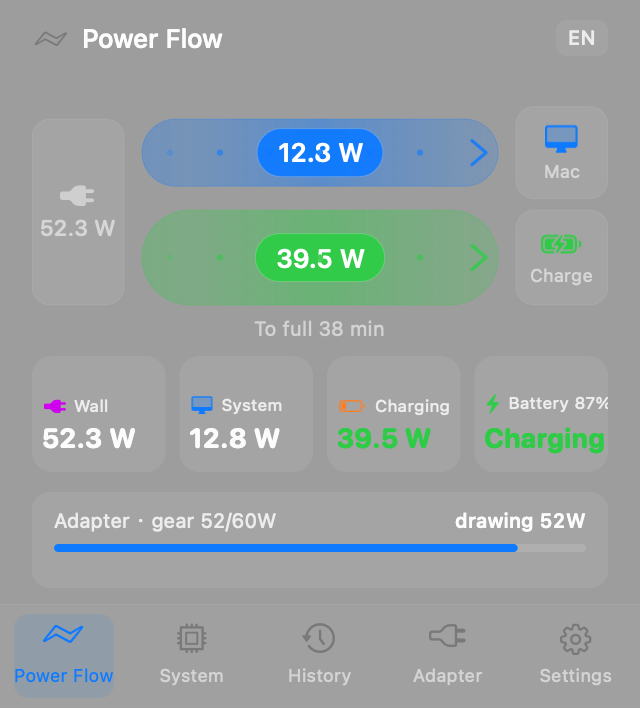
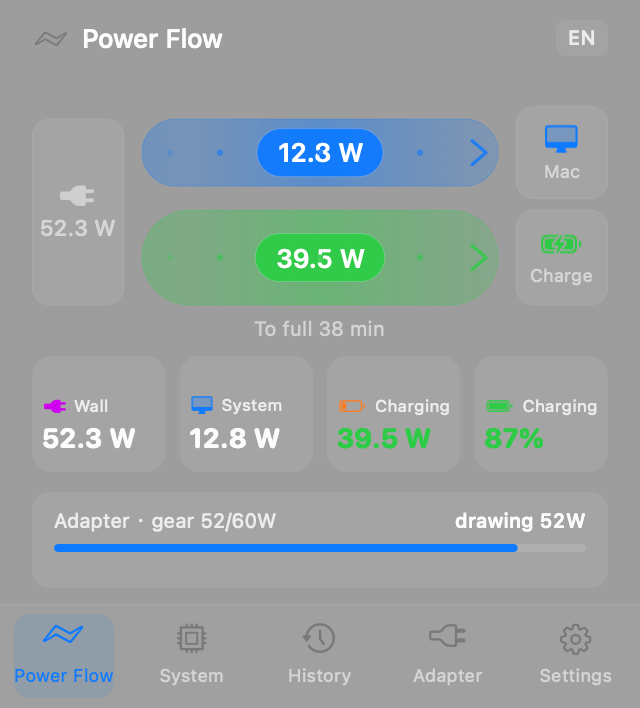
fix(ui): 状态卡英文被切、汇流线断开、体检结论不看缺口
- 状态卡改成「状态小标题 + 电量大字」：英文 'Battery 100%' 在 66pt 卡里
  被切掉百分号，自检的溢出审计也报了 1.75pt
- 两路供电的汇流从一根竖条（和系统节点之间有 3pt 缝）改成两条弧线，
  各自从带子末端收进系统节点
- 体检结论：插着电却在放电时先说'充电器带不动，差 X W 由电池补'，
  不再说'接近充满，功率自然降低'
- MetricCard 加自动缩字号兜底，长文案不会再撑破卡片
- 站点/README 截图按新界面重出，og 图跟着更新
- 版本 2.1.2

Changed region(s): [[0.75, 0.5593, 0.9688, 0.6525]]

diff --git a/docs/en/index.html b/docs/en/index.html
@@ -4,9 +4,9 @@
 <meta charset="utf-8">
 <meta name="viewport" content="width=device-width,initial-scale=1">
 <meta name="color-scheme" content="light">
-<title>PowerPulse — macOS menu bar utility · 2.1.1</title>
+<title>PowerPulse — macOS menu bar utility · 2.1.2</title>
 <meta name="description" content="One sample per second. Wall power, system draw and charge power, as three values that must add up — so you can tell what your charger is actually delivering.">
-<meta property="og:title" content="PowerPulse — macOS menu bar utility · 2.1.1">
+<meta property="og:title" content="PowerPulse — macOS menu bar utility · 2.1.2">
 <meta property="og:description" content="One sample per second. Wall power, system draw and charge power, as three values that must add up — so you can tell what your charger is actually delivering.">
 <meta property="og:image" content="https://powerpulse.qijunhao.xyz/img/og.png">
 <meta property="og:type" content="website">
@@ -280,7 +280,7 @@ pre .c{color:#7f93ad}
 
 <header class="wrap hero">
   <div>
-    <span class="eyebrow"><i class="dot"></i>macOS menu bar utility · 2.1.1</span>
+    <span class="eyebrow"><i class="dot"></i>macOS menu bar utility · 2.1.2</span>
     <h1><span class="ln">Every watt,</span><span class="ln"><em>right in the menu bar.</em></span></h1>
     <p class="hero-sub">One sample per second. Wall power, system draw and charge power, as three values that must add up — so you can tell what your charger is actually delivering.</p>
     <div class="hero-cta">
@@ -387,10 +387,10 @@ pre .c{color:#7f93ad}
 <section class="sec" id="download"><div class="wrap">
   <div class="dl">
     <img src="../img/appicon.png" alt="PowerPulse icon">
-    <div><h2>Install once, live in the menu bar</h2><p>No installer — drag it into Applications. The build isn't notarized, so the first launch is blocked once.</p><div class="meta"><span>v2.1.1</span><span>.zip</span><span>666 KB</span><span>macOS 14.0+</span><span>Apple Silicon</span><span>MIT</span></div><p class="dl-note">Laptops get battery and charging; desktops (Mac Studio / mini / Pro) read system power from SMC.<br>Ad-hoc signed, not notarized: if Gatekeeper blocks the first launch, allow it in System Settings → Privacy & Security.</p>
+    <div><h2>Install once, live in the menu bar</h2><p>No installer — drag it into Applications. The build isn't notarized, so the first launch is blocked once.</p><div class="meta"><span>v2.1.2</span><span>.zip</span><span>667 KB</span><span>macOS 14.0+</span><span>Apple Silicon</span><span>MIT</span></div><p class="dl-note">Laptops get battery and charging; desktops (Mac Studio / mini / Pro) read system power from SMC.<br>Ad-hoc signed, not notarized: if Gatekeeper blocks the first launch, allow it in System Settings → Privacy & Security.</p>
       <div class="dl-cmd"><span>Or install with one line — Terminal downloads carry no quarantine flag, so nothing pops up:</span><code>curl -fsSL https://powerpulse.qijunhao.xyz/install.sh | bash</code></div></div>
     <div class="dl-cta">
-      <a class="btn btn-primary" href="https://github.com/777cola/PowerPulse/releases/latest">Download 2.1.1</a>
+      <a class="btn btn-primary" href="https://github.com/777cola/PowerPulse/releases/latest">Download 2.1.2</a>
     </div>
   </div>
   <details class="build" id="build" open>

diff --git a/docs/index.html b/docs/index.html
@@ -4,9 +4,9 @@
 <meta charset="utf-8">
 <meta name="viewport" content="width=device-width,initial-scale=1">
 <meta name="color-scheme" content="light">
-<title>PowerPulse — macOS 菜单栏工具 · 2.1.1</title>
+<title>PowerPulse — macOS 菜单栏工具 · 2.1.2</title>
 <meta name="description" content="每秒采样一次，把墙插输出、系统功耗、电池充电功率拆开显示。插上充电器那一刻，就知道这套充电套装到底跑了多少。">
-<meta property="og:title" content="PowerPulse — macOS 菜单栏工具 · 2.1.1">
+<meta property="og:title" content="PowerPulse — macOS 菜单栏工具 · 2.1.2">
 <meta property="og:description" content="每秒采样一次，把墙插输出、系统功耗、电池充电功率拆开显示。插上充电器那一刻，就知道这套充电套装到底跑了多少。">
 <meta property="og:image" content="https://powerpulse.qijunhao.xyz/img/og.png">
 <meta property="og:type" content="website">
@@ -280,7 +280,7 @@ pre .c{color:#7f93ad}
 
 <header class="wrap hero">
   <div>
-    <span class="eyebrow"><i class="dot"></i>macOS 菜单栏工具 · 2.1.1</span>
+    <span class="eyebrow"><i class="dot"></i>macOS 菜单栏工具 · 2.1.2</span>
     <h1><span class="ln">菜单栏里，</span><span class="ln"><em>看清每一瓦。</em></span></h1>
     <p class="hero-sub">每秒采样一次，把墙插输出、系统功耗、电池充电功率拆开显示。插上充电器那一刻，就知道这套充电套装到底跑了多少。</p>
     <div class="hero-cta">
@@ -387,10 +387,10 @@ pre .c{color:#7f93ad}
 <section class="sec" id="download"><div class="wrap">
   <div class="dl">
     <img src="img/appicon.png" alt="PowerPulse icon">
-    <div><h2>装上，就一直在菜单栏里</h2><p>免安装器，拖进「应用程序」即可。没有 Apple 公证，首次打开会被系统拦一次。</p><div class="meta"><span>v2.1.1</span><span>.zip</span><span>666 KB</span><span>macOS 14.0+</span><span>Apple Silicon</span><span>MIT</span></div><p class="dl-note">笔记本看电池与充电；台式机（Mac Studio / mini / Pro）没有电池，整机功率从 SMC 读。<br>ad-hoc 签名、未公证：首次打开若被拦，去「系统设置 → 隐私与安全性 → 仍要打开」。</p>
+    <div><h2>装上，就一直在菜单栏里</h2><p>免安装器，拖进「应用程序」即可。没有 Apple 公证，首次打开会被系统拦一次。</p><div class="meta"><span>v2.1.2</span><span>.zip</span><span>667 KB</span><span>macOS 14.0+</span><span>Apple Silicon</span><span>MIT</span></div><p class="dl-note">笔记本看电池与充电；台式机（Mac Studio / mini / Pro）没有电池，整机功率从 SMC 读。<br>ad-hoc 签名、未公证：首次打开若被拦，去「系统设置 → 隐私与安全性 → 仍要打开」。</p>
       <div class="dl-cmd"><span>或一行装好，终端下载不带隔离标记，不会弹窗：</span><code>curl -fsSL https://powerpulse.qijunhao.xyz/install.sh | bash</code></div></div>
     <div class="dl-cta">
-      <a class="btn btn-primary" href="https://github.com/777cola/PowerPulse/releases/latest">下载 2.1.1</a>
+      <a class="btn btn-primary" href="https://github.com/777cola/PowerPulse/releases/latest">下载 2.1.2</a>
     </div>
   </div>
   <details class="build" id="build" open>

diff --git a/Sources/Support.swift b/Sources/Support.swift
@@ -49,6 +49,7 @@ enum S {
     static let remaining = Tri("预计可用", "預計可用", "Time left")
     static let toFull = Tri("预计充满", "預計充滿", "To full")
     static let supplement = Tri("电池在补充", "電池在補充", "Battery assisting")
+    static let supplementShort = Tri("电池补充", "電池補充", "Assist")
     static let calculating = Tri("计算中", "計算中", "—")
 
     static let adapterTitle = Tri("充电器", "充電器", "Charger")
@@ -68,6 +69,7 @@ enum S {
     static let vSlow = Tri("充电速度受限，可能是线材或充电头档位不够", "充電速度受限，可能是線材或充電頭檔位不夠", "Charging speed limited — cable or adapter tier")
     static let vTaper = Tri("后段充电，功率会逐步下降，属正常", "後段充電，功率會逐步下降，屬正常", "Late-stage charging — power tapers off by design")
     static let vFull = Tri("接近充满，功率自然降低", "接近充滿，功率自然降低", "Nearly full — power tapers off")
+    static let vShort = Tri("充电器带不动整机，差的 %.1f W 由电池补", "充電器帶不動整機，差的 %.1f W 由電池補", "Charger can't keep up — %.1f W from battery")
     static let vGood = Tri("满功率协商，充电套装一切正常", "滿功率協商，充電套裝一切正常", "Negotiated at full power — kit is fine")
     static let vLimited = Tri("当前协商 %@W，低于套装上限 %@W", "當前協商 %@W，低於套裝上限 %@W", "Negotiated %@W, below kit max %@W")
     static let unknown = Tri("未上报", "未上報", "not reported")

diff --git a/Sources/Panels.swift b/Sources/Panels.swift
@@ -41,7 +41,7 @@ final class NowPanel: Panel {
     private let wallCard = MetricCard(title: S.wall.v(Settings.shared.lang), symbol: "powerplug.fill", color: D.purple)
     private let sysCard = MetricCard(title: S.systemUse.v(Settings.shared.lang), symbol: "desktopcomputer", color: D.blue)
     private let batCard = MetricCard(title: S.batteryOut.v(Settings.shared.lang), symbol: "battery.25", color: D.orange)
-    private let stateCard = MetricCard(title: S.battery.v(Settings.shared.lang), symbol: "bolt.fill", color: D.green)
+    private let stateCard = MetricCard(title: S.battery.v(Settings.shared.lang), symbol: "battery.100", color: D.green)
 
     private let adapterLine = label("", font: D.text(10), color: D.secondary)
     private let adapterValue = label("", font: D.num(10, .medium), color: D.label, align: .right)
@@ -119,8 +119,9 @@ final class NowPanel: Panel {
             batCard.update(title: s.isPluggedIn ? S.batteryOut.v(lang) : S.batteryOut.v(lang),
                            value: String(format: "%.1f W", s.batteryDischargeW), valueColor: D.orange)
         }
-        stateCard.update(title: "\(S.battery.v(lang)) \(s.percent)%",
-                         value: s.statusTextKey.v(lang),
+        // 状态当小标题、电量当大字：英文 "Battery 100%" 这种长标题会把卡片挤爆
+        stateCard.update(title: s.statusTextKey.v(lang),
+                         value: "\(s.percent)%",
                          valueColor: s.isCharging ? D.green : (s.percent <= 15 ? D.red : D.label))
 
         if let a, s.isPluggedIn {

diff --git a/Sources/FlowView.swift b/Sources/FlowView.swift
@@ -272,10 +272,19 @@ final class FlowView: NSView {
 
         for b in bands { drawBandBody(b) }
 
-        // 汇流条：两根带子在右边并成一路，再接系统
-        let bus = NSRect(x: endX + 1, y: top, width: 5, height: blockH)
-        D.blue.withAlphaComponent(0.5).setFill()
-        NSBezierPath(roundedRect: bus, xRadius: 2.5, yRadius: 2.5).fill()
+        // 汇流：两根带子各画一条弧线收进系统节点，比直角的 T 形接线顺眼
+        let nodeLeft = bounds.width - nodeW
+        D.blue.withAlphaComponent(0.5).setStroke()
+        for band in bands {
+            let merge = NSBezierPath()
+            merge.lineWidth = 3
+            merge.lineCapStyle = .round
+            merge.move(to: NSPoint(x: endX - 3, y: band.centerY))
+            merge.curve(to: NSPoint(x: nodeLeft + 3, y: midY),
+                        controlPoint1: NSPoint(x: endX + 10, y: band.centerY),
+                        controlPoint2: NSPoint(x: nodeLeft - 8, y: midY))
+            merge.stroke()
+        }
 
         drawNode(x: 0, centerY: wallBand.centerY, height: max(wallBand.height, 46),
                  symbol: "powerplug.fill", value: String(format: "%.1f W", snapshot.wallW), color: D.purple)

diff --git a/Sources/Power.swift b/Sources/Power.swift
@@ -46,7 +46,7 @@ struct PowerSnapshot {
     }
     var statusTextKey: Tri {
         if isCharging { return S.charging }
-        if flowMode == .supplementing { return S.supplement }
+        if flowMode == .supplementing { return S.supplementShort }
         if isPluggedIn { return percent >= 99 ? S.full : S.plugged }
         return S.discharging
     }
@@ -81,6 +81,12 @@ struct AdapterInfo {
     func verdict(snap: PowerSnapshot) -> (text: String, level: Int) {
         // level: 0 正常 1 提示 2 警告
         if isWireless { return (S.wirelessCharging.v(Settings.shared.lang), 1) }
+        // 插着电却还在放电：结论只能是"充电器带不动"，不是"快充满了"
+        if snap.flowMode == .supplementing {
+            // 用电池实际出力，别用"系统 - 墙插"倒算：两者差 0.1 就对不上图里的数字
+            let missing = max(snap.batteryW, 0)
+            return (String(format: S.vShort.v(Settings.shared.lang), missing), 2)
+        }
         if snap.thermallyLimited != 0 || snap.temperature >= 42 {
             return (S.vThermal.v(Settings.shared.lang), 2)
         }

diff --git a/Sources/Widgets.swift b/Sources/Widgets.swift
@@ -135,6 +135,20 @@ final class MetricCard: NSView {
     }
     required init?(coder: NSCoder) { fatalError() }
 
+    override func layout() {
+        super.layout()
+        // 卡片窄、文案长（英文/繁中）时缩一点字号，比截成 "Battery as…" 好看
+        let available = bounds.width - 10
+        guard available > 20 else { return }
+        var size: CGFloat = 13.5
+        while size > 9.5, valueLabel.stringValue.size(D.rounded(size)).width > available {
+            size -= 0.5
+        }
+        if abs((valueLabel.font?.pointSize ?? 0) - size) > 0.01 {
+            valueLabel.font = D.rounded(size)
+        }
+    }
+
     /// 没数据时整张卡"熄灯"，别让灰色占位看起来像激活的模块
     func setDimmed(_ dim: Bool) {
         iconView?.alphaValue = dim ? 0.4 : 1

diff --git a/tools/build_site.py b/tools/build_site.py
@@ -7,8 +7,8 @@
 import io, os, pathlib
 
 # 版本与包体积只在这里改一处
-SITE_VER = "2.1.1"
-ZIP_KB = "666"
+SITE_VER = "2.1.2"
+ZIP_KB = "667"
 
 ROOT = pathlib.Path(__file__).resolve().parent.parent
 DOCS = ROOT / "docs"

diff --git a/README.md b/README.md
@@ -218,6 +218,7 @@ SourcesWidget/
 
 | 版本 | 内容 |
 |---|---|
+| **2.1.2** | 状态卡改成「状态 + 电量大字」，英文 `Battery 100%` 不再被卡片切掉；两路供电的汇流线改成弧线接进系统；体检结论在充电器带不动时直接给缺口 |
 | **2.1.1** | 修功率流「插着电就一定在充电」的假设：`IsCharging` 只说明充电器在线，电池可能在放电。现在分三种流向，并修「预计充满 1092:15」（系统给的是 65535 哨兵值） |
 | **2.1.0** | 台式机支持；修电池机菜单栏「插头与电池图标并排」；修 100% 仍显示「预计充满 44 分钟」；系统监控补 5 分钟时间刻度 |
 | **2.0.0** | 纯 AppKit 重写。修旧版历史插电即清空、内存重复计数、菜单栏 10 秒才刷新；新增充电器识别、充电体检、SQLite 历史、通知、桌面小组件、三语界面 |
